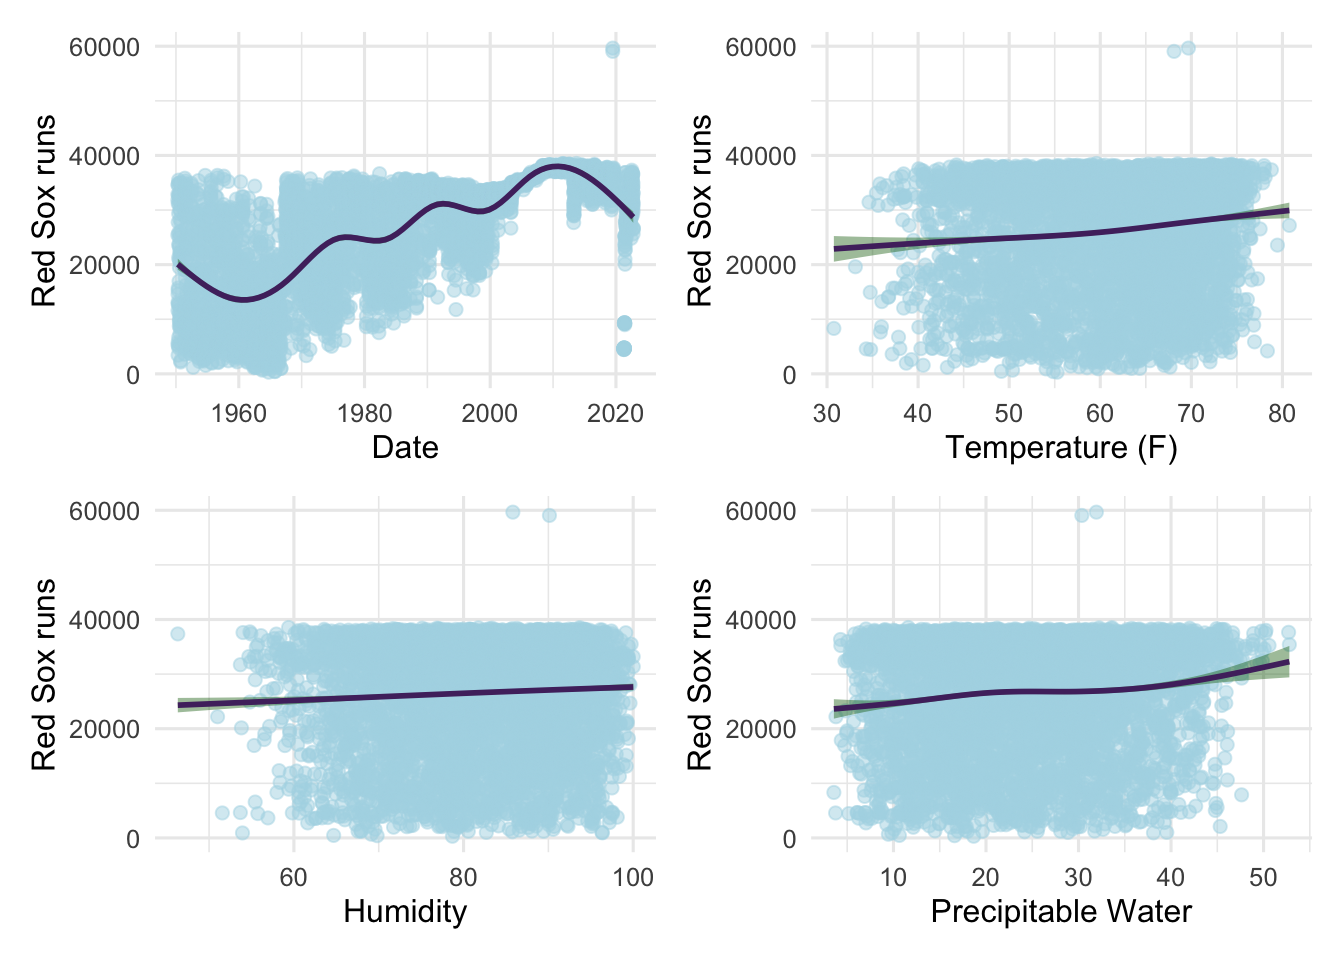
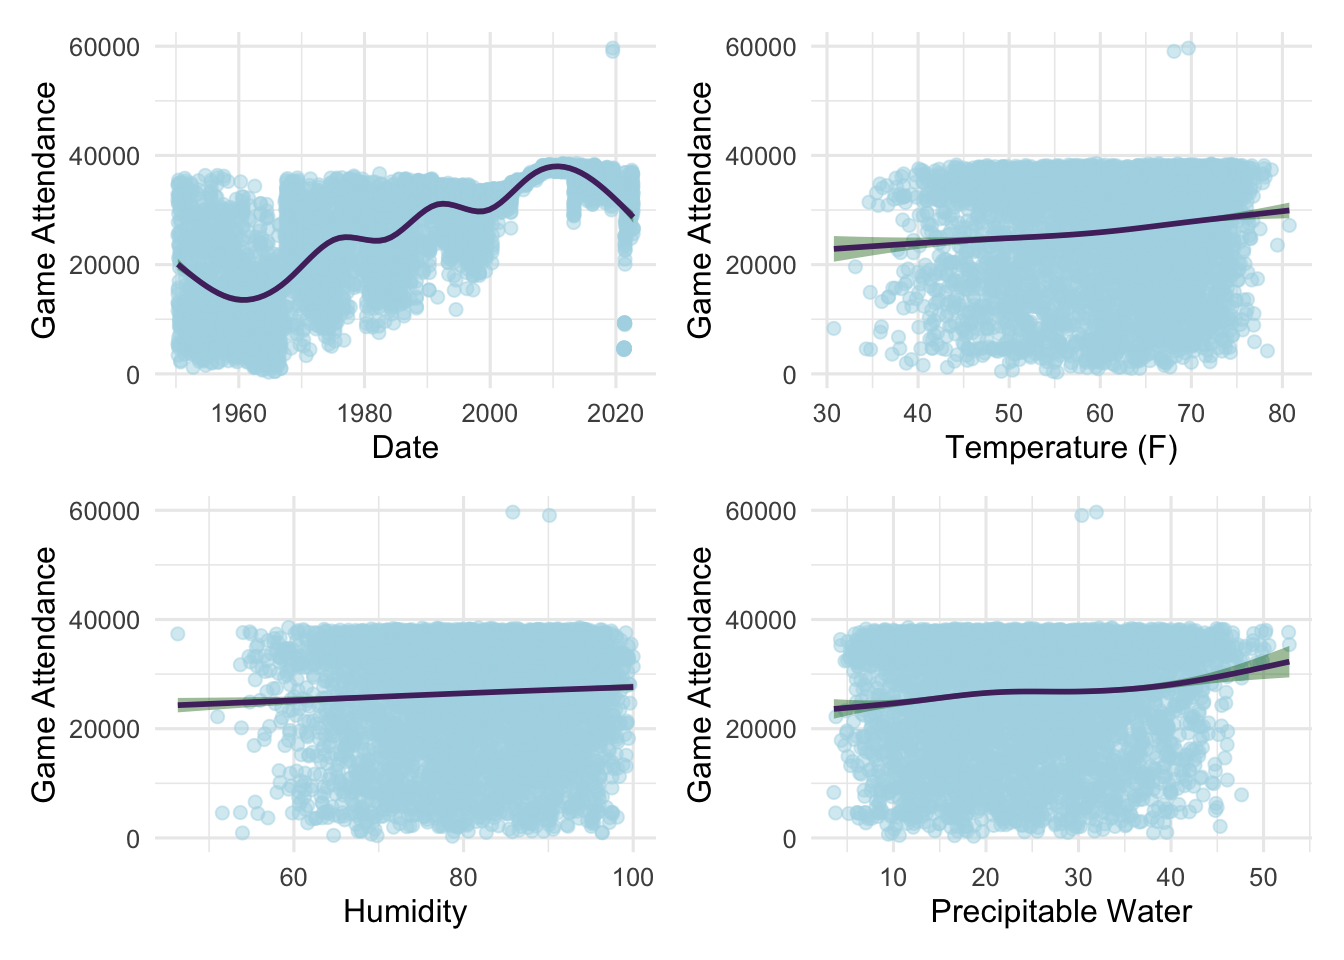
update

diff --git a/report/index.html b/report/index.html
@@ -702,7 +702,7 @@ div.csl-indent {
 <p>Our main interest in this project is to examine how climate and weather factors impact aspects of baseball games such as the score, outcome, duration, and attendance games. As previously noted, we have data about humidity, precipitable water<a href="#fn2" class="footnote-ref" id="fnref2" role="doc-noteref"><sup>2</sup></a>, and temperature for the Red Sox home games.</p>
 <section id="climate-and-weather-variables" class="level4">
 <h4 class="anchored" data-anchor-id="climate-and-weather-variables">Climate and Weather Variables</h4>
-<p><a href="#fig-weathers">Figure&nbsp;7</a></p>
+<p><a href="#fig-weathers">Figure&nbsp;7</a> show the distributions for humidity (as a percent), temperature (in degrees Fahrenheit), and precipitable water (in units of <span class="math inline">\(\frac{\text{kg}}{\text{m}^2}\)</span>).</p>
 <div class="cell">
 <details>
 <summary>Code</summary>
@@ -741,7 +741,7 @@ div.csl-indent {
 <section id="variable-relationships" class="level3">
 <h3 class="anchored" data-anchor-id="variable-relationships">Variable Relationships</h3>
 <p>We would like to determine what if any impact there has been on the score, outcome, duration, or attendance of Red Sox games over time by temperature, humidity, or precipitable water.</p>
-<p><a href="#fig-runs">Figure&nbsp;8</a> shows …</p>
+<p><a href="#fig-runs">Figure&nbsp;8</a> shows the number of runs scored by the Boston Red Sox at each home game from 1950 to 2022 (2020 excluded) plotted against date, temperature, humidity, and precipitable water, respectively.</p>
 <div class="cell">
 <details>
 <summary>Code</summary>
@@ -749,22 +749,22 @@ div.csl-indent {
 <span id="cb13-2"><a href="#cb13-2" aria-hidden="true" tabindex="-1"></a>  <span class="fu">ggplot</span>(<span class="fu">aes</span>(<span class="at">x=</span>date,<span class="at">y=</span>hm_runs)) <span class="sc">+</span> </span>
 <span id="cb13-3"><a href="#cb13-3" aria-hidden="true" tabindex="-1"></a>  <span class="fu">geom_point</span>(<span class="at">size=</span><span class="dv">2</span>,<span class="at">color=</span><span class="st">"lightblue"</span>,<span class="at">alpha=</span><span class="fl">0.5</span>) <span class="sc">+</span> </span>
 <span id="cb13-4"><a href="#cb13-4" aria-hidden="true" tabindex="-1"></a>  <span class="fu">geom_smooth</span>(<span class="at">color=</span><span class="st">"#512d6d"</span>,<span class="at">fill=</span><span class="st">"darkgreen"</span>) <span class="sc">+</span> </span>
-<span id="cb13-5"><a href="#cb13-5" aria-hidden="true" tabindex="-1"></a>  <span class="fu">labs</span>(<span class="at">x=</span><span class="st">"Date"</span>,<span class="at">y=</span><span class="st">"Red Sox runs"</span>)</span>
+<span id="cb13-5"><a href="#cb13-5" aria-hidden="true" tabindex="-1"></a>  <span class="fu">labs</span>(<span class="at">x=</span><span class="st">"Date"</span>,<span class="at">y=</span><span class="st">"Red Sox Runs"</span>)</span>
 <span id="cb13-6"><a href="#cb13-6" aria-hidden="true" tabindex="-1"></a>hs_temp <span class="ot">&lt;-</span> boston_game_weather <span class="sc">%&gt;%</span></span>
 <span id="cb13-7"><a href="#cb13-7" aria-hidden="true" tabindex="-1"></a>  <span class="fu">ggplot</span>(<span class="fu">aes</span>(<span class="at">x=</span>tempF,<span class="at">y=</span>hm_runs)) <span class="sc">+</span> </span>
 <span id="cb13-8"><a href="#cb13-8" aria-hidden="true" tabindex="-1"></a>  <span class="fu">geom_point</span>(<span class="at">size=</span><span class="dv">2</span>,<span class="at">color=</span><span class="st">"lightblue"</span>,<span class="at">alpha=</span><span class="fl">0.5</span>) <span class="sc">+</span> </span>
 <span id="cb13-9"><a href="#cb13-9" aria-hidden="true" tabindex="-1"></a>  <span class="fu">geom_smooth</span>(<span class="at">color=</span><span class="st">"#512d6d"</span>,<span class="at">fill=</span><span class="st">"darkgreen"</span>) <span class="sc">+</span> </span>
-<span id="cb13-10"><a href="#cb13-10" aria-hidden="true" tabindex="-1"></a>  <span class="fu">labs</span>(<span class="at">x=</span><span class="st">"Temperature (F)"</span>,<span class="at">y=</span><span class="st">"Red Sox runs"</span>)</span>
+<span id="cb13-10"><a href="#cb13-10" aria-hidden="true" tabindex="-1"></a>  <span class="fu">labs</span>(<span class="at">x=</span><span class="st">"Temperature (F)"</span>,<span class="at">y=</span><span class="st">"Red Sox Runs"</span>)</span>
 <span id="cb13-11"><a href="#cb13-11" aria-hidden="true" tabindex="-1"></a>hs_humid <span class="ot">&lt;-</span> boston_game_weather <span class="sc">%&gt;%</span></span>
 <span id="cb13-12"><a href="#cb13-12" aria-hidden="true" tabindex="-1"></a>  <span class="fu">ggplot</span>(<span class="fu">aes</span>(<span class="at">x=</span>humid,<span class="at">y=</span>hm_runs)) <span class="sc">+</span> </span>
 <span id="cb13-13"><a href="#cb13-13" aria-hidden="true" tabindex="-1"></a>  <span class="fu">geom_point</span>(<span class="at">size=</span><span class="dv">2</span>,<span class="at">color=</span><span class="st">"lightblue"</span>,<span class="at">alpha=</span><span class="fl">0.5</span>) <span class="sc">+</span> </span>
 <span id="cb13-14"><a href="#cb13-14" aria-hidden="true" tabindex="-1"></a>  <span class="fu">geom_smooth</span>(<span class="at">color=</span><span class="st">"#512d6d"</span>,<span class="at">fill=</span><span class="st">"darkgreen"</span>) <span class="sc">+</span> </span>
-<span id="cb13-15"><a href="#cb13-15" aria-hidden="true" tabindex="-1"></a>  <span class="fu">labs</span>(<span class="at">x=</span><span class="st">"Humidity"</span>,<span class="at">y=</span><span class="st">"Red Sox runs"</span>)</span>
+<span id="cb13-15"><a href="#cb13-15" aria-hidden="true" tabindex="-1"></a>  <span class="fu">labs</span>(<span class="at">x=</span><span class="st">"Humidity"</span>,<span class="at">y=</span><span class="st">"Red Sox Runs"</span>)</span>
 <span id="cb13-16"><a href="#cb13-16" aria-hidden="true" tabindex="-1"></a>hs_precip <span class="ot">&lt;-</span> boston_game_weather <span class="sc">%&gt;%</span></span>
 <span id="cb13-17"><a href="#cb13-17" aria-hidden="true" tabindex="-1"></a>  <span class="fu">ggplot</span>(<span class="fu">aes</span>(<span class="at">x=</span>precip,<span class="at">y=</span>hm_runs)) <span class="sc">+</span> </span>
 <span id="cb13-18"><a href="#cb13-18" aria-hidden="true" tabindex="-1"></a>  <span class="fu">geom_point</span>(<span class="at">size=</span><span class="dv">2</span>,<span class="at">color=</span><span class="st">"lightblue"</span>,<span class="at">alpha=</span><span class="fl">0.5</span>) <span class="sc">+</span> </span>
 <span id="cb13-19"><a href="#cb13-19" aria-hidden="true" tabindex="-1"></a>  <span class="fu">geom_smooth</span>(<span class="at">color=</span><span class="st">"#512d6d"</span>,<span class="at">fill=</span><span class="st">"darkgreen"</span>) <span class="sc">+</span> </span>
-<span id="cb13-20"><a href="#cb13-20" aria-hidden="true" tabindex="-1"></a>  <span class="fu">labs</span>(<span class="at">x=</span><span class="st">"Precipitable Water"</span>,<span class="at">y=</span><span class="st">"Red Sox runs"</span>)</span>
+<span id="cb13-20"><a href="#cb13-20" aria-hidden="true" tabindex="-1"></a>  <span class="fu">labs</span>(<span class="at">x=</span><span class="st">"Precipitable Water"</span>,<span class="at">y=</span><span class="st">"Red Sox Runs"</span>)</span>
 <span id="cb13-21"><a href="#cb13-21" aria-hidden="true" tabindex="-1"></a></span>
 <span id="cb13-22"><a href="#cb13-22" aria-hidden="true" tabindex="-1"></a>(hs_date <span class="sc">+</span> hs_temp) <span class="sc">/</span> (hs_humid <span class="sc">+</span> hs_precip)</span></code><button title="Copy to Clipboard" class="code-copy-button"><i class="bi"></i></button></pre></div>
 </details>
@@ -777,7 +777,8 @@ div.csl-indent {
 </div>
 </div>
 </div>
-<p><a href="#fig-wins">Figure&nbsp;9</a> shows …</p>
+<p>Here it is difficult to see any clear pattern of influence that date, temperature, humidity, or precipitable water have on the number of runs the Red Sox score at home games over the specified period of time. We observe that there are potential outliers in each of the plots in <a href="#fig-runs">Figure&nbsp;8</a>.</p>
+<p><a href="#fig-wins">Figure&nbsp;9</a> shows shows the wins for the Boston Red Sox at each home game from 1950 to 2022 (2020 excluded) plotted against date, temperature, humidity, and precipitable water, respectively.</p>
 <div class="cell">
 <details>
 <summary>Code</summary>
@@ -824,22 +825,22 @@ div.csl-indent {
 <span id="cb15-2"><a href="#cb15-2" aria-hidden="true" tabindex="-1"></a>  <span class="fu">ggplot</span>(<span class="fu">aes</span>(<span class="at">x=</span>date,<span class="at">y=</span>duration)) <span class="sc">+</span> </span>
 <span id="cb15-3"><a href="#cb15-3" aria-hidden="true" tabindex="-1"></a>  <span class="fu">geom_point</span>(<span class="at">size=</span><span class="dv">2</span>,<span class="at">color=</span><span class="st">"lightblue"</span>,<span class="at">alpha=</span><span class="fl">0.5</span>) <span class="sc">+</span> </span>
 <span id="cb15-4"><a href="#cb15-4" aria-hidden="true" tabindex="-1"></a>  <span class="fu">geom_smooth</span>(<span class="at">color=</span><span class="st">"#512d6d"</span>,<span class="at">fill=</span><span class="st">"darkgreen"</span>) <span class="sc">+</span> </span>
-<span id="cb15-5"><a href="#cb15-5" aria-hidden="true" tabindex="-1"></a>  <span class="fu">labs</span>(<span class="at">x=</span><span class="st">"Date"</span>,<span class="at">y=</span><span class="st">"Red Sox runs"</span>)</span>
+<span id="cb15-5"><a href="#cb15-5" aria-hidden="true" tabindex="-1"></a>  <span class="fu">labs</span>(<span class="at">x=</span><span class="st">"Date"</span>,<span class="at">y=</span><span class="st">"Game Duration"</span>)</span>
 <span id="cb15-6"><a href="#cb15-6" aria-hidden="true" tabindex="-1"></a>ds_temp <span class="ot">&lt;-</span> boston_game_weather <span class="sc">%&gt;%</span></span>
 <span id="cb15-7"><a href="#cb15-7" aria-hidden="true" tabindex="-1"></a>  <span class="fu">ggplot</span>(<span class="fu">aes</span>(<span class="at">x=</span>tempF,<span class="at">y=</span>duration)) <span class="sc">+</span> </span>
 <span id="cb15-8"><a href="#cb15-8" aria-hidden="true" tabindex="-1"></a>  <span class="fu">geom_point</span>(<span class="at">size=</span><span class="dv">2</span>,<span class="at">color=</span><span class="st">"lightblue"</span>,<span class="at">alpha=</span><span class="fl">0.5</span>) <span class="sc">+</span> </span>
 <span id="cb15-9"><a href="#cb15-9" aria-hidden="true" tabindex="-1"></a>  <span class="fu">geom_smooth</span>(<span class="at">color=</span><span class="st">"#512d6d"</span>,<span class="at">fill=</span><span class="st">"darkgreen"</span>) <span class="sc">+</span> </span>
-<span id="cb15-10"><a href="#cb15-10" aria-hidden="true" tabindex="-1"></a>  <span class="fu">labs</span>(<span class="at">x=</span><span class="st">"Temperature (F)"</span>,<span class="at">y=</span><span class="st">"Red Sox runs"</span>)</span>
+<span id="cb15-10"><a href="#cb15-10" aria-hidden="true" tabindex="-1"></a>  <span class="fu">labs</span>(<span class="at">x=</span><span class="st">"Temperature (F)"</span>,<span class="at">y=</span><span class="st">"Game Duration"</span>)</span>
 <span id="cb15-11"><a href="#cb15-11" aria-hidden="true" tabindex="-1"></a>ds_humid <span class="ot">&lt;-</span> boston_game_weather <span class="sc">%&gt;%</span></span>
 <span id="cb15-12"><a href="#cb15-12" aria-hidden="true" tabindex="-1"></a>  <span class="fu">ggplot</span>(<span class="fu">aes</span>(<span class="at">x=</span>humid,<span class="at">y=</span>duration)) <span class="sc">+</span> </span>
 <span id="cb15-13"><a href="#cb15-13" aria-hidden="true" tabindex="-1"></a>  <span class="fu">geom_point</span>(<span class="at">size=</span><span class="dv">2</span>,<span class="at">color=</span><span class="st">"lightblue"</span>,<span class="at">alpha=</span><span class="fl">0.5</span>) <span class="sc">+</span> </span>
 <span id="cb15-14"><a href="#cb15-14" aria-hidden="true" tabindex="-1"></a>  <span class="fu">geom_smooth</span>(<span class="at">color=</span><span class="st">"#512d6d"</span>,<span class="at">fill=</span><span class="st">"darkgreen"</span>) <span class="sc">+</span> </span>
-<span id="cb15-15"><a href="#cb15-15" aria-hidden="true" tabindex="-1"></a>  <span class="fu">labs</span>(<span class="at">x=</span><span class="st">"Humidity"</span>,<span class="at">y=</span><span class="st">"Red Sox runs"</span>)</span>
+<span id="cb15-15"><a href="#cb15-15" aria-hidden="true" tabindex="-1"></a>  <span class="fu">labs</span>(<span class="at">x=</span><span class="st">"Humidity"</span>,<span class="at">y=</span><span class="st">"Game Duration"</span>)</span>
 <span id="cb15-16"><a href="#cb15-16" aria-hidden="true" tabindex="-1"></a>ds_precip <span class="ot">&lt;-</span> boston_game_weather <span class="sc">%&gt;%</span></span>
 <span id="cb15-17"><a href="#cb15-17" aria-hidden="true" tabindex="-1"></a>  <span class="fu">ggplot</span>(<span class="fu">aes</span>(<span class="at">x=</span>precip,<span class="at">y=</span>duration)) <span class="sc">+</span> </span>
 <span id="cb15-18"><a href="#cb15-18" aria-hidden="true" tabindex="-1"></a>  <span class="fu">geom_point</span>(<span class="at">size=</span><span class="dv">2</span>,<span class="at">color=</span><span class="st">"lightblue"</span>,<span class="at">alpha=</span><span class="fl">0.5</span>) <span class="sc">+</span> </span>
 <span id="cb15-19"><a href="#cb15-19" aria-hidden="true" tabindex="-1"></a>  <span class="fu">geom_smooth</span>(<span class="at">color=</span><span class="st">"#512d6d"</span>,<span class="at">fill=</span><span class="st">"darkgreen"</span>) <span class="sc">+</span> </span>
-<span id="cb15-20"><a href="#cb15-20" aria-hidden="true" tabindex="-1"></a>  <span class="fu">labs</span>(<span class="at">x=</span><span class="st">"Precipitable Water"</span>,<span class="at">y=</span><span class="st">"Red Sox runs"</span>)</span>
+<span id="cb15-20"><a href="#cb15-20" aria-hidden="true" tabindex="-1"></a>  <span class="fu">labs</span>(<span class="at">x=</span><span class="st">"Precipitable Water"</span>,<span class="at">y=</span><span class="st">"Game Duration"</span>)</span>
 <span id="cb15-21"><a href="#cb15-21" aria-hidden="true" tabindex="-1"></a></span>
 <span id="cb15-22"><a href="#cb15-22" aria-hidden="true" tabindex="-1"></a>(ds_date <span class="sc">+</span> ds_temp) <span class="sc">/</span> (ds_humid <span class="sc">+</span> ds_precip)</span></code><button title="Copy to Clipboard" class="code-copy-button"><i class="bi"></i></button></pre></div>
 </details>
@@ -861,25 +862,25 @@ div.csl-indent {
 <span id="cb16-3"><a href="#cb16-3" aria-hidden="true" tabindex="-1"></a>  <span class="fu">ggplot</span>(<span class="fu">aes</span>(<span class="at">x=</span>date,<span class="at">y=</span>attendance)) <span class="sc">+</span> </span>
 <span id="cb16-4"><a href="#cb16-4" aria-hidden="true" tabindex="-1"></a>  <span class="fu">geom_point</span>(<span class="at">size=</span><span class="dv">2</span>,<span class="at">color=</span><span class="st">"lightblue"</span>,<span class="at">alpha=</span><span class="fl">0.5</span>) <span class="sc">+</span> </span>
 <span id="cb16-5"><a href="#cb16-5" aria-hidden="true" tabindex="-1"></a>  <span class="fu">geom_smooth</span>(<span class="at">color=</span><span class="st">"#512d6d"</span>,<span class="at">fill=</span><span class="st">"darkgreen"</span>) <span class="sc">+</span> </span>
-<span id="cb16-6"><a href="#cb16-6" aria-hidden="true" tabindex="-1"></a>  <span class="fu">labs</span>(<span class="at">x=</span><span class="st">"Date"</span>,<span class="at">y=</span><span class="st">"Red Sox runs"</span>)</span>
+<span id="cb16-6"><a href="#cb16-6" aria-hidden="true" tabindex="-1"></a>  <span class="fu">labs</span>(<span class="at">x=</span><span class="st">"Date"</span>,<span class="at">y=</span><span class="st">"Game Attendance"</span>)</span>
 <span id="cb16-7"><a href="#cb16-7" aria-hidden="true" tabindex="-1"></a>as_temp <span class="ot">&lt;-</span> boston_game_weather <span class="sc">%&gt;%</span></span>
 <span id="cb16-8"><a href="#cb16-8" aria-hidden="true" tabindex="-1"></a>  <span class="fu">filter</span>(attendance <span class="sc">&gt;</span> <span class="dv">0</span>) <span class="sc">%&gt;%</span></span>
 <span id="cb16-9"><a href="#cb16-9" aria-hidden="true" tabindex="-1"></a>  <span class="fu">ggplot</span>(<span class="fu">aes</span>(<span class="at">x=</span>tempF,<span class="at">y=</span>attendance)) <span class="sc">+</span> </span>
 <span id="cb16-10"><a href="#cb16-10" aria-hidden="true" tabindex="-1"></a>  <span class="fu">geom_point</span>(<span class="at">size=</span><span class="dv">2</span>,<span class="at">color=</span><span class="st">"lightblue"</span>,<span class="at">alpha=</span><span class="fl">0.5</span>) <span class="sc">+</span> </span>
 <span id="cb16-11"><a href="#cb16-11" aria-hidden="true" tabindex="-1"></a>  <span class="fu">geom_smooth</span>(<span class="at">color=</span><span class="st">"#512d6d"</span>,<span class="at">fill=</span><span class="st">"darkgreen"</span>) <span class="sc">+</span> </span>
-<span id="cb16-12"><a href="#cb16-12" aria-hidden="true" tabindex="-1"></a>  <span class="fu">labs</span>(<span class="at">x=</span><span class="st">"Temperature (F)"</span>,<span class="at">y=</span><span class="st">"Red Sox runs"</span>)</span>
+<span id="cb16-12"><a href="#cb16-12" aria-hidden="true" tabindex="-1"></a>  <span class="fu">labs</span>(<span class="at">x=</span><span class="st">"Temperature (F)"</span>,<span class="at">y=</span><span class="st">"Game Attendance"</span>)</span>
 <span id="cb16-13"><a href="#cb16-13" aria-hidden="true" tabindex="-1"></a>as_humid <span class="ot">&lt;-</span> boston_game_weather <span class="sc">%&gt;%</span></span>
 <span id="cb16-14"><a href="#cb16-14" aria-hidden="true" tabindex="-1"></a>  <span class="fu">filter</span>(attendance <span class="sc">&gt;</span> <span class="dv">0</span>) <span class="sc">%&gt;%</span></span>
 <span id="cb16-15"><a href="#cb16-15" aria-hidden="true" tabindex="-1"></a>  <span class="fu">ggplot</span>(<span class="fu">aes</span>(<span class="at">x=</span>humid,<span class="at">y=</span>attendance)) <span class="sc">+</span> </span>
 <span id="cb16-16"><a href="#cb16-16" aria-hidden="true" tabindex="-1"></a>  <span class="fu">geom_point</span>(<span class="at">size=</span><span class="dv">2</span>,<span class="at">color=</span><span class="st">"lightblue"</span>,<span class="at">alpha=</span><span class="fl">0.5</span>) <span class="sc">+</span> </span>
 <span id="cb16-17"><a href="#cb16-17" aria-hidden="true" tabindex="-1"></a>  <span class="fu">geom_smooth</span>(<span class="at">color=</span><span class="st">"#512d6d"</span>,<span class="at">fill=</span><span class="st">"darkgreen"</span>) <span class="sc">+</span> </span>
-<span id="cb16-18"><a href="#cb16-18" aria-hidden="true" tabindex="-1"></a>  <span class="fu">labs</span>(<span class="at">x=</span><span class="st">"Humidity"</span>,<span class="at">y=</span><span class="st">"Red Sox runs"</span>)</span>
+<span id="cb16-18"><a href="#cb16-18" aria-hidden="true" tabindex="-1"></a>  <span class="fu">labs</span>(<span class="at">x=</span><span class="st">"Humidity"</span>,<span class="at">y=</span><span class="st">"Game Attendance"</span>)</span>
 <span id="cb16-19"><a href="#cb16-19" aria-hidden="true" tabindex="-1"></a>as_precip <span class="ot">&lt;-</span> boston_game_weather <span class="sc">%&gt;%</span></span>
 <span id="cb16-20"><a href="#cb16-20" aria-hidden="true" tabindex="-1"></a>  <span class="fu">filter</span>(attendance <span class="sc">&gt;</span> <span class="dv">0</span>) <span class="sc">%&gt;%</span></span>
 <span id="cb16-21"><a href="#cb16-21" aria-hidden="true" tabindex="-1"></a>  <span class="fu">ggplot</span>(<span class="fu">aes</span>(<span class="at">x=</span>precip,<span class="at">y=</span>attendance)) <span class="sc">+</span> </span>
 <span id="cb16-22"><a href="#cb16-22" aria-hidden="true" tabindex="-1"></a>  <span class="fu">geom_point</span>(<span class="at">size=</span><span class="dv">2</span>,<span class="at">color=</span><span class="st">"lightblue"</span>,<span class="at">alpha=</span><span class="fl">0.5</span>) <span class="sc">+</span> </span>
 <span id="cb16-23"><a href="#cb16-23" aria-hidden="true" tabindex="-1"></a>  <span class="fu">geom_smooth</span>(<span class="at">color=</span><span class="st">"#512d6d"</span>,<span class="at">fill=</span><span class="st">"darkgreen"</span>) <span class="sc">+</span> </span>
-<span id="cb16-24"><a href="#cb16-24" aria-hidden="true" tabindex="-1"></a>  <span class="fu">labs</span>(<span class="at">x=</span><span class="st">"Precipitable Water"</span>,<span class="at">y=</span><span class="st">"Red Sox runs"</span>)</span>
+<span id="cb16-24"><a href="#cb16-24" aria-hidden="true" tabindex="-1"></a>  <span class="fu">labs</span>(<span class="at">x=</span><span class="st">"Precipitable Water"</span>,<span class="at">y=</span><span class="st">"Game Attendance"</span>)</span>
 <span id="cb16-25"><a href="#cb16-25" aria-hidden="true" tabindex="-1"></a></span>
 <span id="cb16-26"><a href="#cb16-26" aria-hidden="true" tabindex="-1"></a>(as_date <span class="sc">+</span> as_temp) <span class="sc">/</span> (as_humid <span class="sc">+</span> as_precip)</span></code><button title="Copy to Clipboard" class="code-copy-button"><i class="bi"></i></button></pre></div>
 </details>
